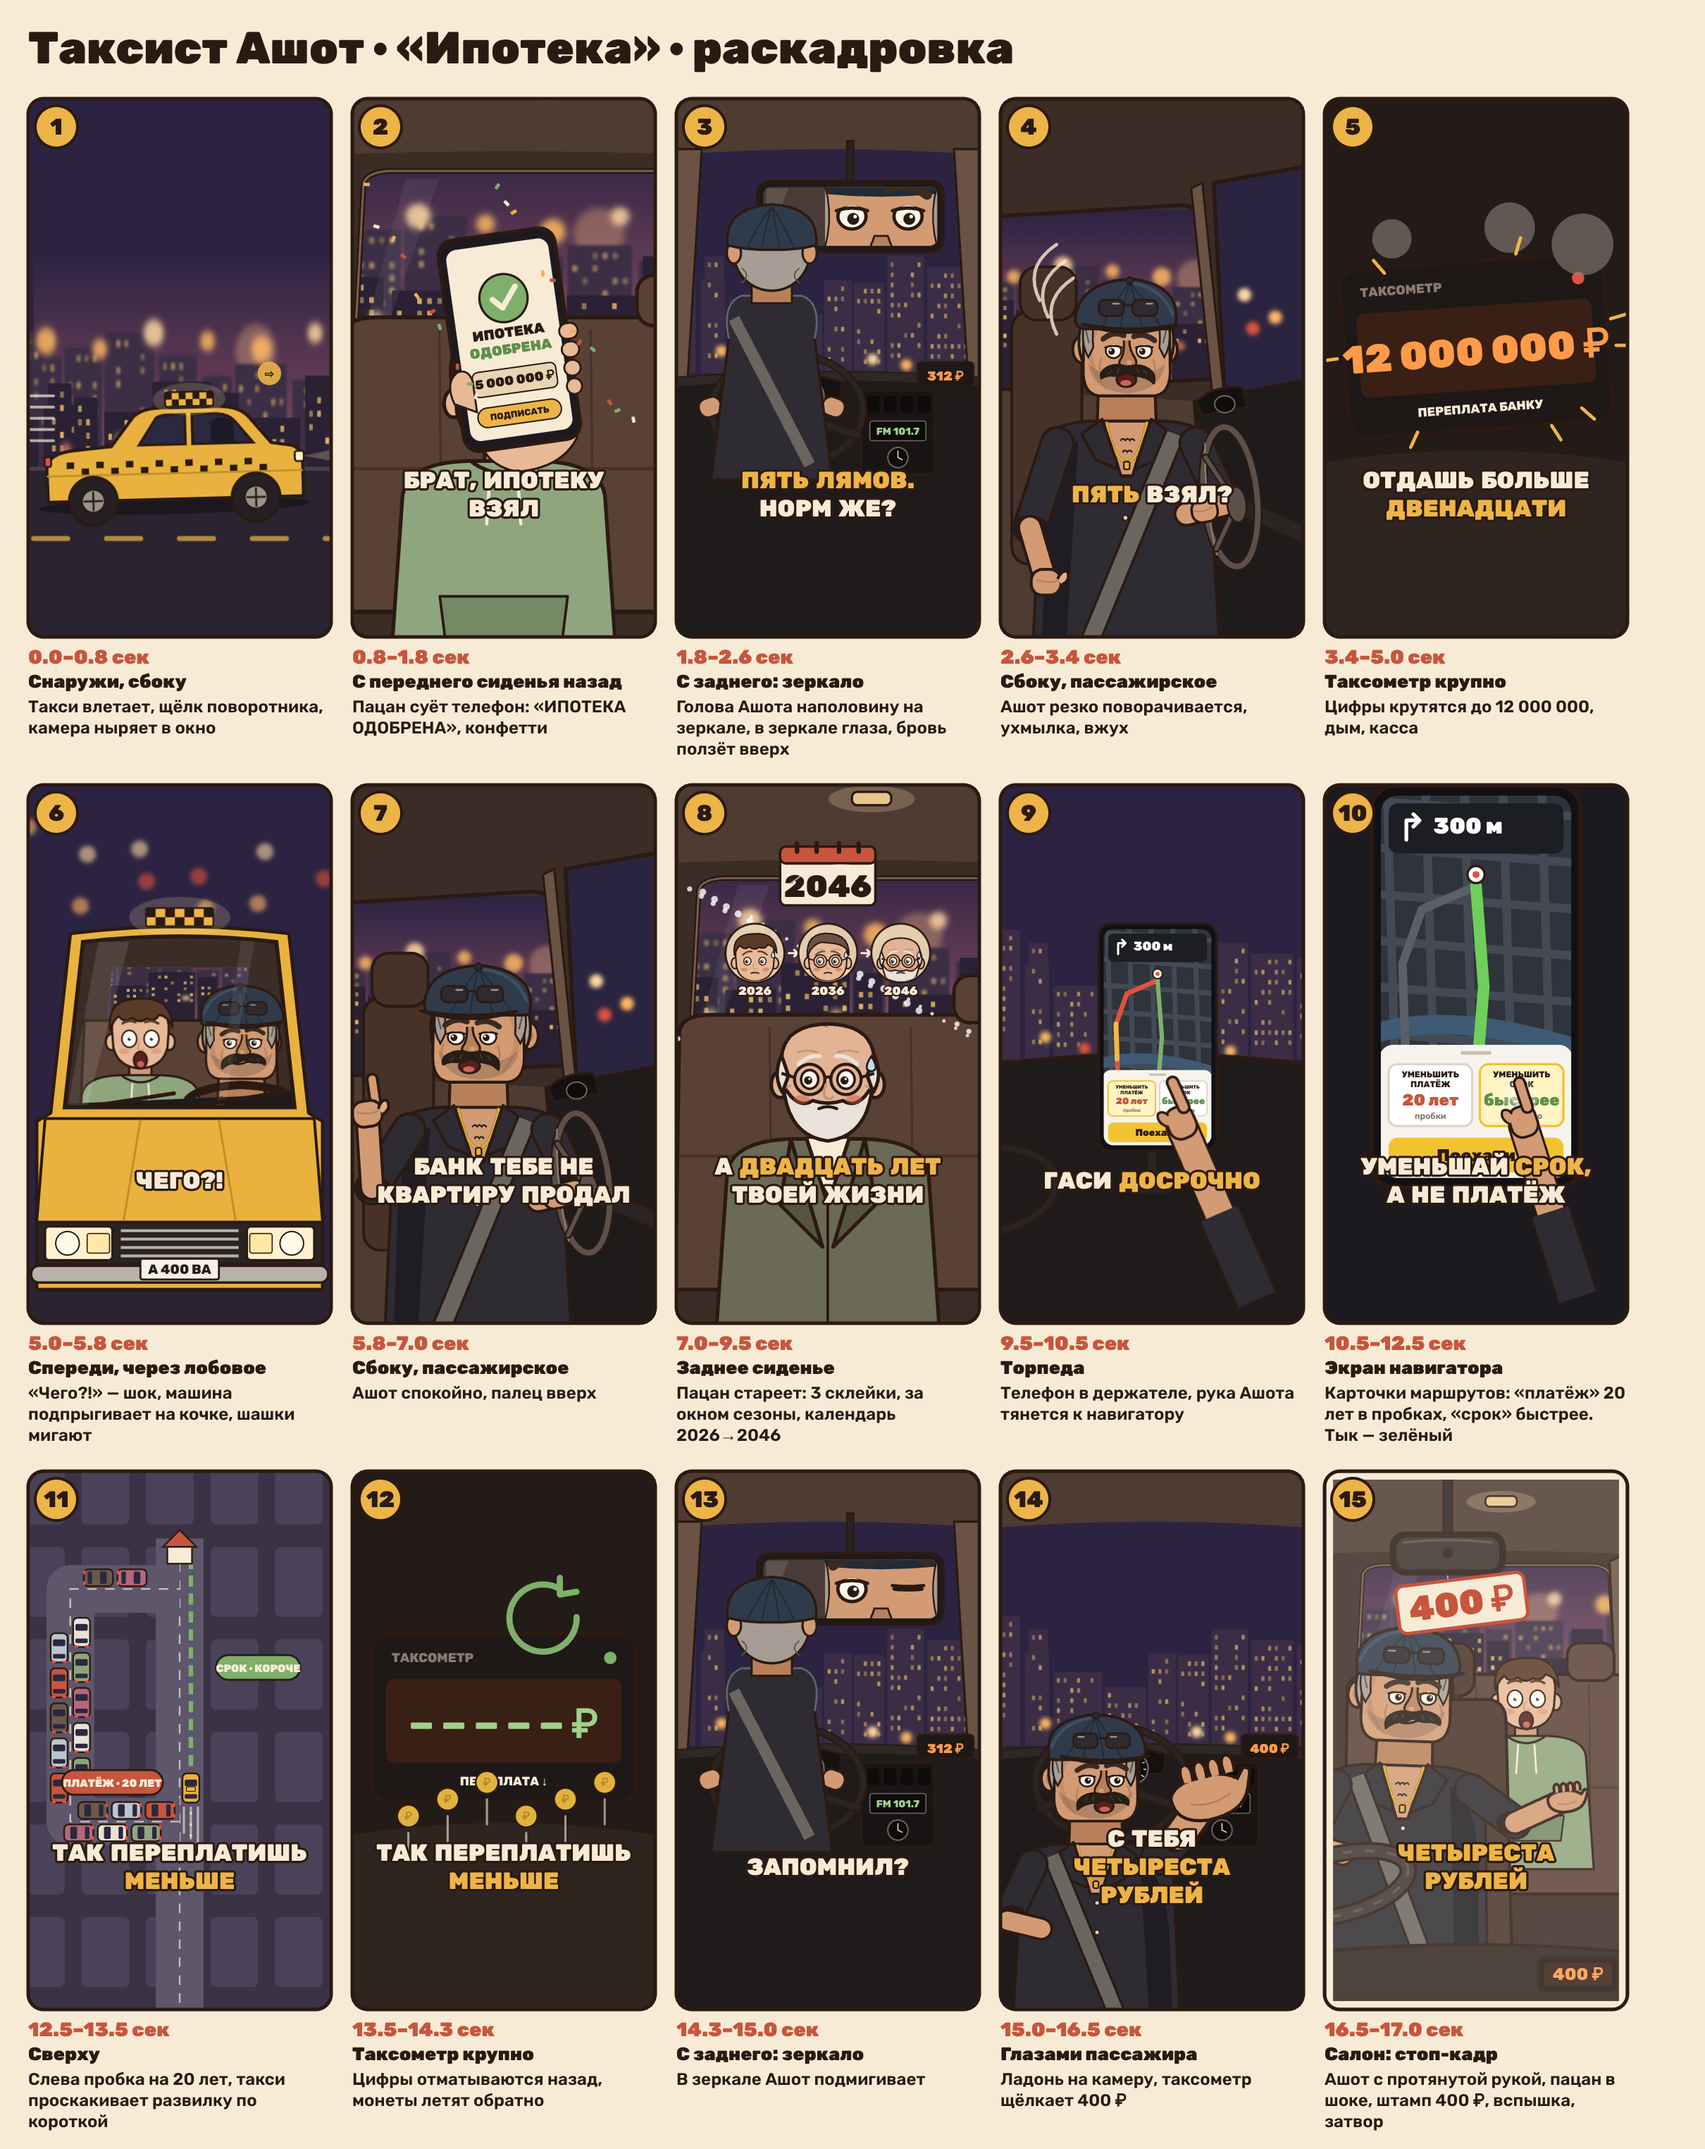
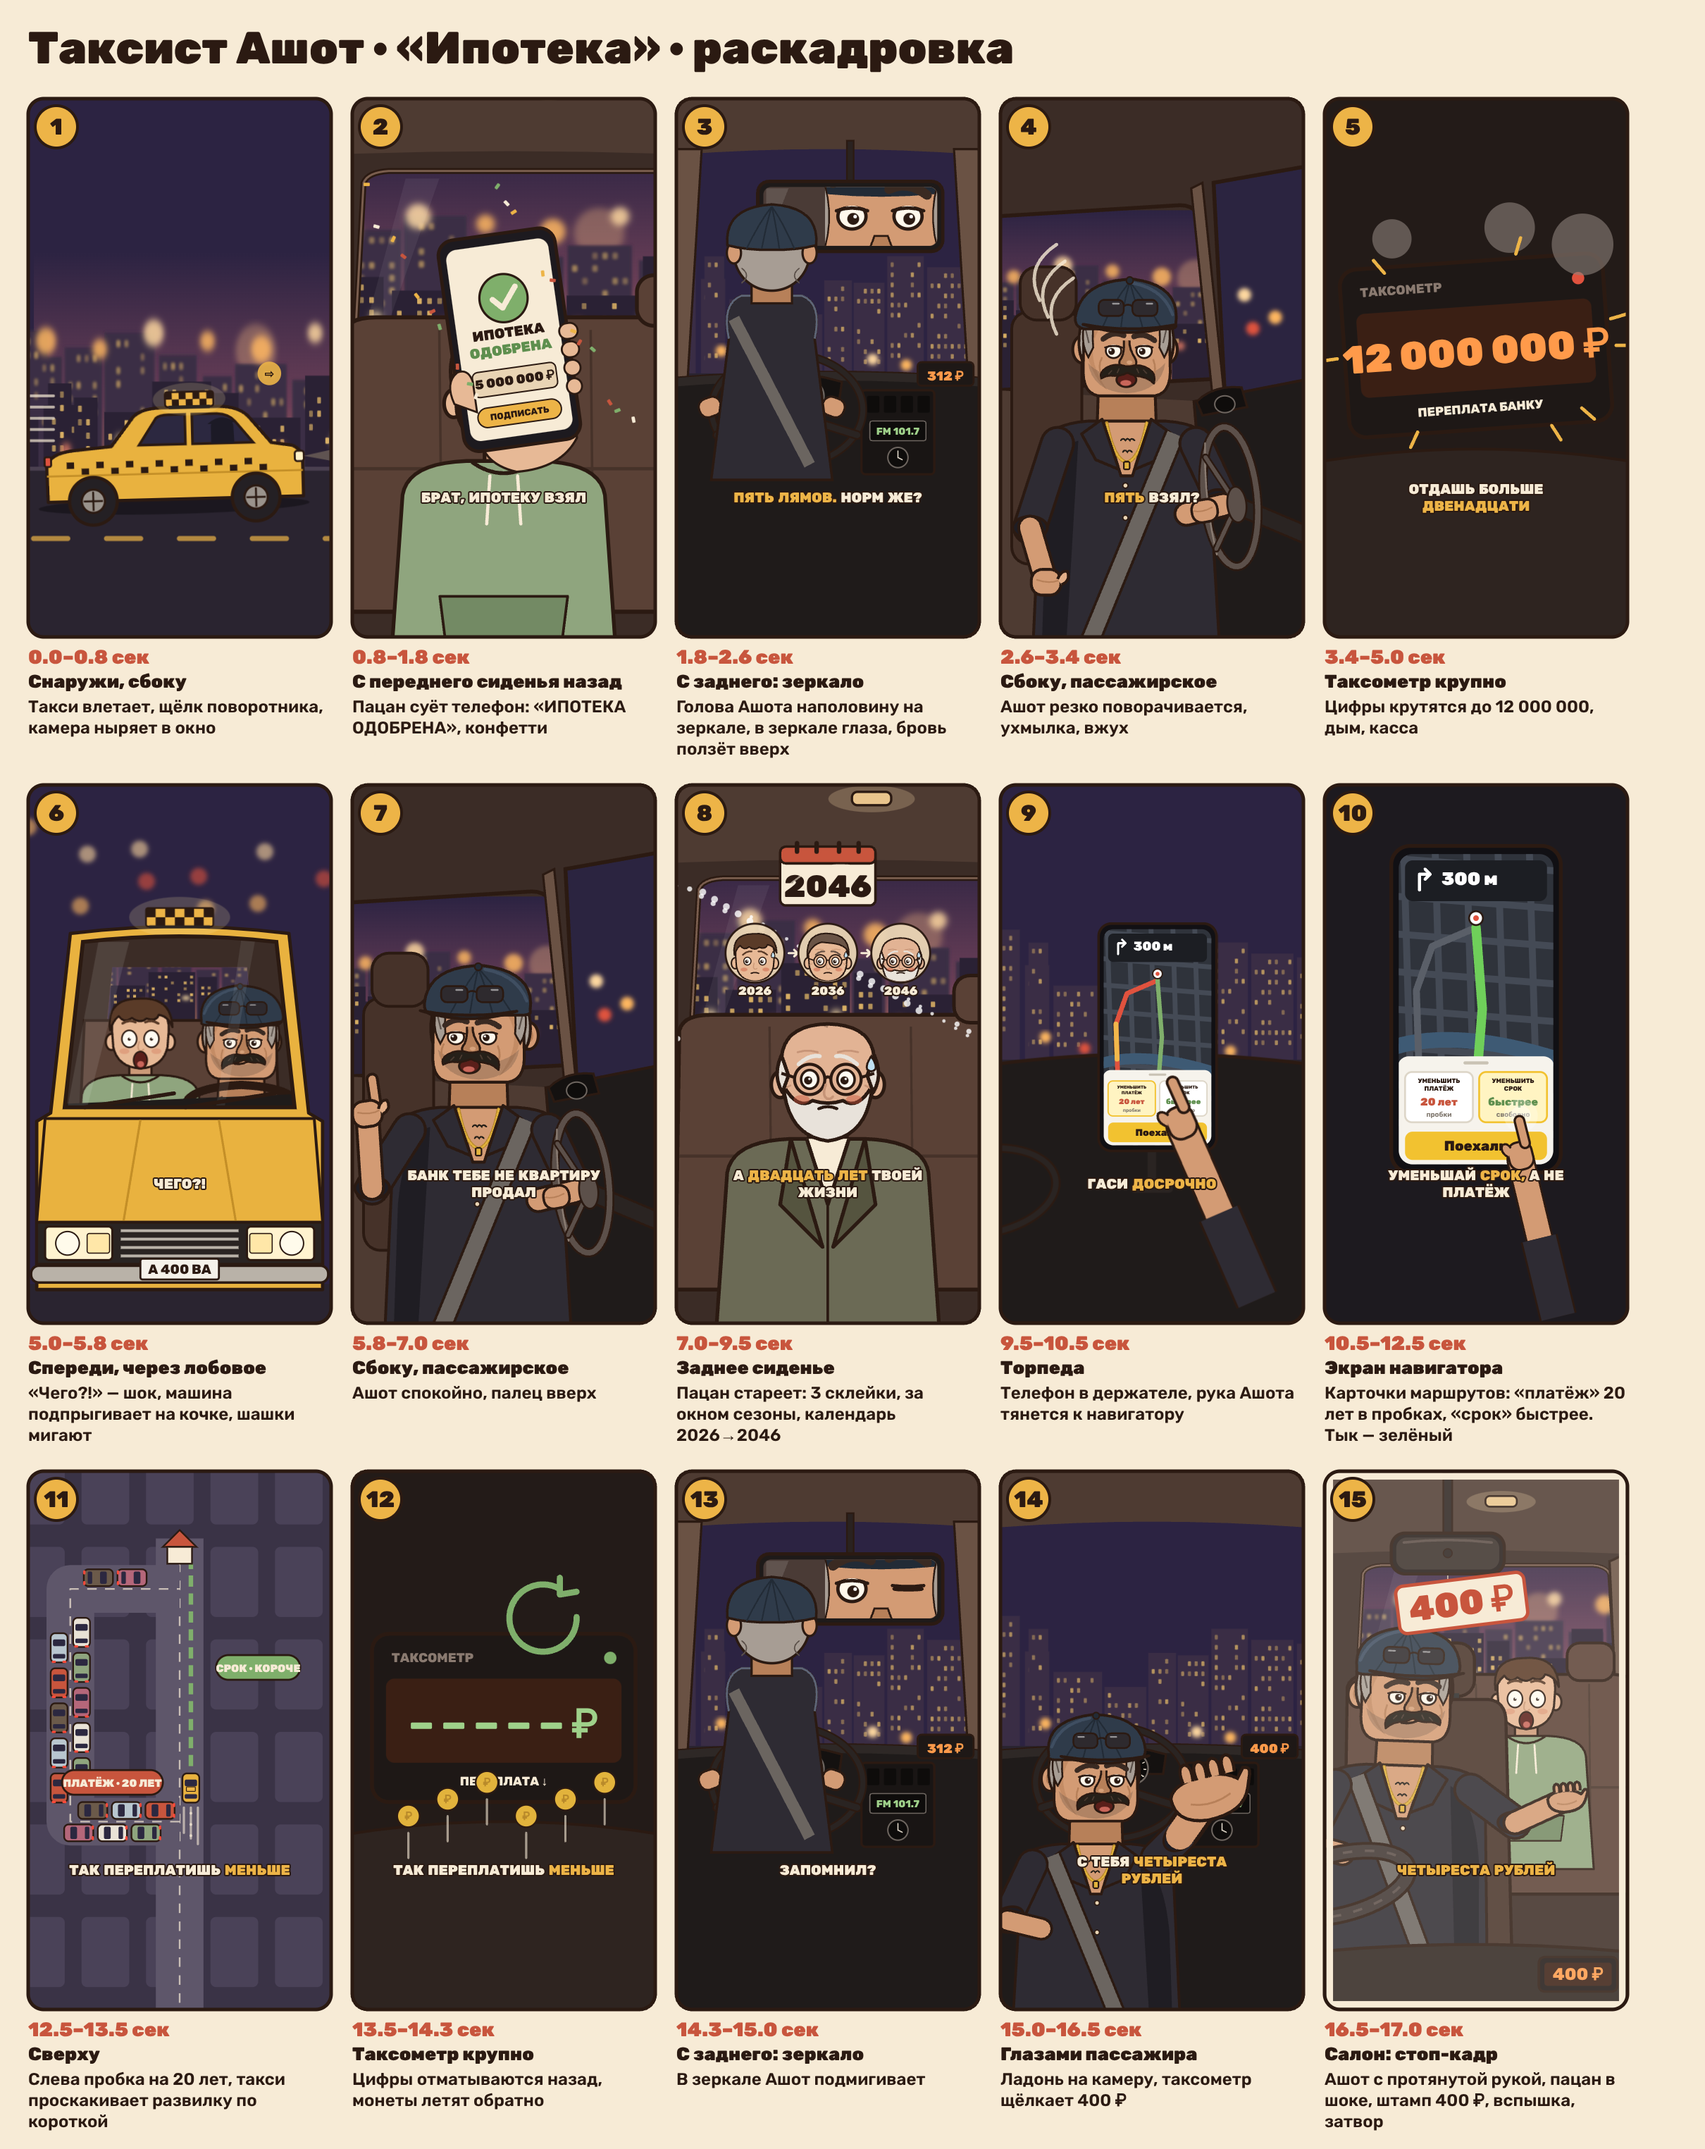
taksist-ashot: навигатор в рамке кадра, субтитры на 40% меньше
Claude-Session: https://claude.ai/code/session_01FderZ16nXvmzRHn6wZ3CF6

diff --git a/.claude/skills/taksist-ashot/engine/src/boards/Shots.tsx b/.claude/skills/taksist-ashot/engine/src/boards/Shots.tsx
@@ -15,14 +15,14 @@ export const Sub: React.FC<{text: string; keys?: string[]}> = ({text, keys = []}
   const lines: string[][] = [[]];
   for (const w of text.split(' ')) {
     const cur = lines[lines.length - 1];
-    if (cur.length && (cur.join(' ') + ' ' + w).length > 15) lines.push([w]); else cur.push(w);
+    if (cur.length && (cur.join(' ') + ' ' + w).length > 22) lines.push([w]); else cur.push(w);
   }
   return (
     <g>
       {lines.map((ws, j) => (
-        <text key={j} x={540} y={1440 + j * 100 - (lines.length - 1) * 50} textAnchor="middle" fontFamily={F} fontWeight={900} fontSize={84}>
+        <text key={j} x={540} y={1440 + j * 62 - (lines.length - 1) * 31} textAnchor="middle" fontFamily={F} fontWeight={900} fontSize={50}>
           {ws.map((w, i) => (
-            <tspan key={i} dx={i ? 24 : 0} fill={keys.includes(w) ? P.mustard : P.cream} stroke={P.ink} strokeWidth={16} paintOrder="stroke" strokeLinejoin="round">{w.toUpperCase()}</tspan>
+            <tspan key={i} dx={i ? 14 : 0} fill={keys.includes(w) ? P.mustard : P.cream} stroke={P.ink} strokeWidth={10} paintOrder="stroke" strokeLinejoin="round">{w.toUpperCase()}</tspan>
           ))}
         </text>
       ))}
@@ -458,9 +458,9 @@ export const NavPhone: React.FC<{pick?: boolean}> = ({pick = true}) => (
       {[['УМЕНЬШИТЬ ПЛАТЁЖ', '20 лет', 'пробки', !pick], ['УМЕНЬШИТЬ СРОК', 'быстрее', 'свободно', pick]].map(([a, b, c, on], i) => (
         <g key={i} transform={`translate(${i ? 118 : -118},280)`}>
           <rect x={-108} y={-80} width={216} height={160} rx={22} fill={on ? '#FFF4C2' : '#fff'} stroke={on ? '#F2C230' : '#DDD6C8'} strokeWidth={6} />
-          <text y={-46} textAnchor="middle" fontFamily={F} fontWeight={800} fontSize={22} fill={P.ink}>{(a as string).split(' ')[0]}</text>
-          <text y={-20} textAnchor="middle" fontFamily={F} fontWeight={800} fontSize={22} fill={P.ink}>{(a as string).split(' ')[1]}</text>
-          <text y={26} textAnchor="middle" fontFamily={F} fontWeight={900} fontSize={42} fill={i ? P.sageDark : '#C8553D'}>{b as string}</text>
+          <text y={-46} textAnchor="middle" fontFamily={F} fontWeight={800} fontSize={20} fill={P.ink}>{(a as string).split(' ')[0]}</text>
+          <text y={-20} textAnchor="middle" fontFamily={F} fontWeight={800} fontSize={20} fill={P.ink}>{(a as string).split(' ')[1]}</text>
+          <text y={26} textAnchor="middle" fontFamily={F} fontWeight={900} fontSize={34} fill={i ? P.sageDark : '#C8553D'}>{b as string}</text>
           <text y={62} textAnchor="middle" fontFamily={F} fontWeight={600} fontSize={22} fill="#7A7268">{c as string}</text>
         </g>
       ))}
@@ -492,9 +492,9 @@ export const ShotDash: React.FC = () => (
 export const ShotNav: React.FC<{pick?: boolean}> = ({pick = true}) => (
   <svg viewBox="0 0 1080 1920">
     <rect width={1080} height={1920} fill="#1D1A1F" />
-    <g transform="translate(540,720) scale(1.38)"><NavPhone pick={pick} /></g>
-    <g transform="translate(700,1110)"><circle r={60} fill="#fff" opacity={0.25} /><circle r={36} fill="#fff" opacity={0.35} /></g>
-    <PokeHand x={720} y={1150} rot={-18} s={1.0} />
+    <g transform="translate(540,800) scale(1.12)"><NavPhone pick={pick} /></g>
+    <g transform="translate(700,1180)"><circle r={60} fill="#fff" opacity={0.25} /><circle r={36} fill="#fff" opacity={0.35} /></g>
+    <PokeHand x={712} y={1278} rot={-14} s={0.9} />
     <Sub text="уменьшай срок, а не платёж" keys={['срок,']} />
   </svg>
 );

diff --git a/.claude/skills/taksist-ashot/engine/src/overlays/Subtitles.tsx b/.claude/skills/taksist-ashot/engine/src/overlays/Subtitles.tsx
@@ -29,17 +29,17 @@ export const Subtitles: React.FC<{t: number}> = ({t}) => {
   const k = pop(after(t, c.s - 0.03, 0.22));
   return (
     <div style={{position: 'absolute', left: 140, right: 140, top: 1330, height: 260, display: 'flex', justifyContent: 'center', alignItems: 'center'}}>
-      <div style={{display: 'flex', flexWrap: 'wrap', justifyContent: 'center', gap: '0 46px', maxWidth: 800, transform: `scale(${0.85 + 0.15 * k})`}}>
+      <div style={{display: 'flex', flexWrap: 'wrap', justifyContent: 'center', gap: '0 24px', maxWidth: 800, transform: `scale(${0.85 + 0.15 * k})`}}>
         {c.words.map((w, i) => {
           const active = t >= w.s - 0.02 && t < (c.words[i + 1]?.s ?? w.e + 0.4);
           const key = KEYS.includes(norm(w.w));
           return (
             <span key={i} style={{
-              fontFamily: 'Rubik', fontWeight: 900, fontSize: 92, lineHeight: 1.12, textTransform: 'uppercase',
+              fontFamily: 'Rubik', fontWeight: 900, fontSize: 55, lineHeight: 1.12, textTransform: 'uppercase',
               color: key ? P.mustard : c.who === 'passenger' ? '#FFFFFF' : P.cream,
-              WebkitTextStroke: `13px ${P.ink}`, paintOrder: 'stroke fill',
+              WebkitTextStroke: `8px ${P.ink}`, paintOrder: 'stroke fill',
               transform: `scale(${active ? 1.1 : 1}) translateY(${active ? -4 : 0}px)`, display: 'inline-block',
-              textShadow: `0 8px 0 ${P.ink}`,
+              textShadow: `0 5px 0 ${P.ink}`,
             }}>{w.w.replace(/[,.]$/, '')}</span>
           );
         })}
